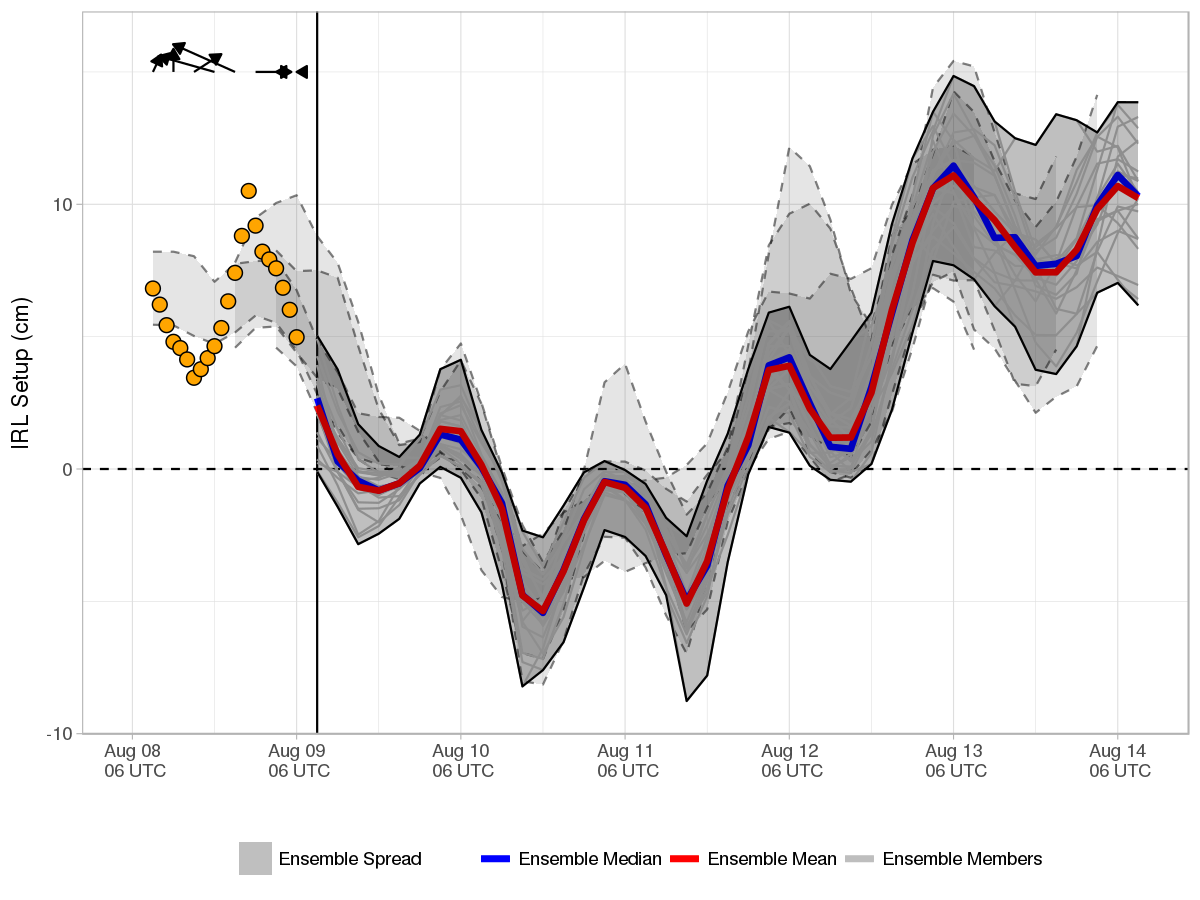
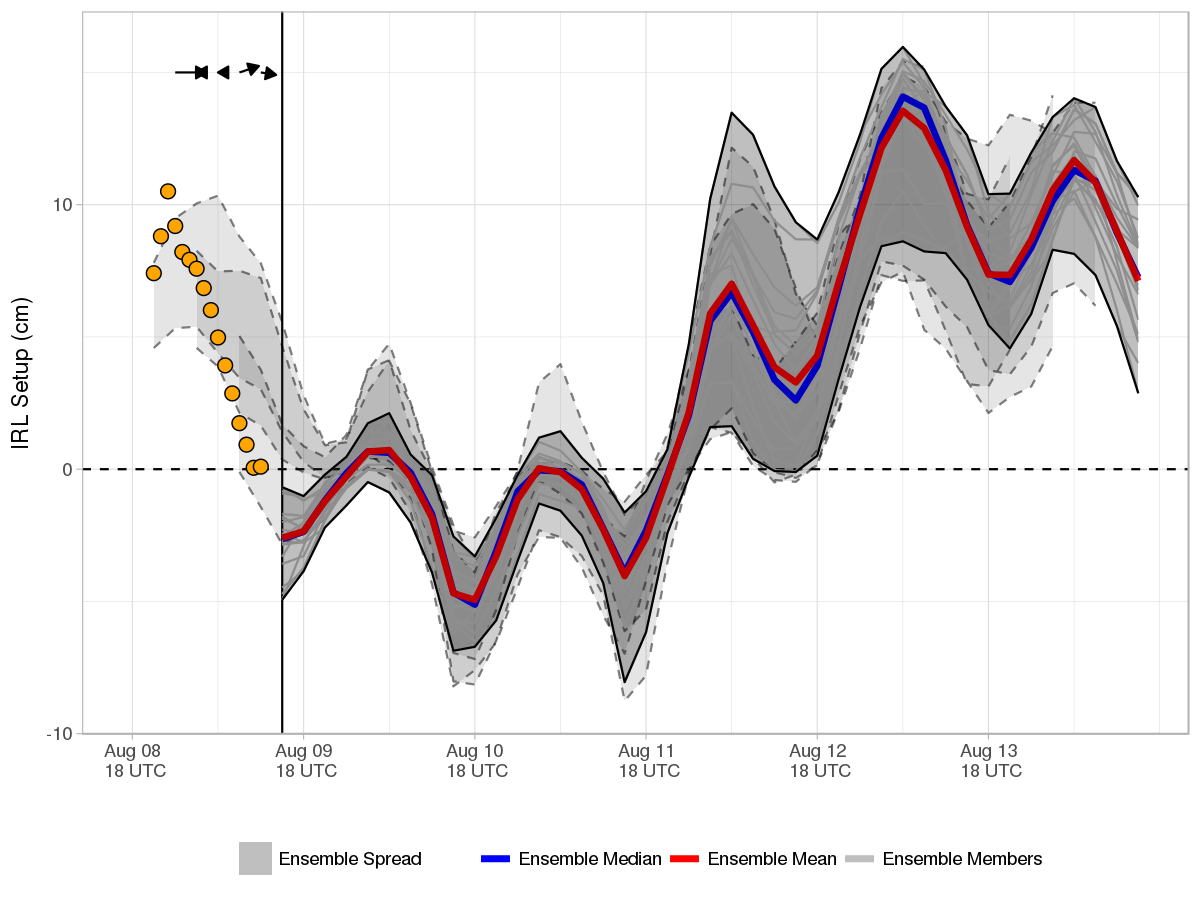
Forecast Update

diff --git a/docs/index.md b/docs/index.md
@@ -1,9 +1,9 @@
-Current Forecast 2018-08-09, Cycle 00UTC
+Current Forecast 2018-08-09, Cycle 06UTC
 ----------------------------------------
 
 [![](img/raw_setup.png)](https://fit-winds.github.io/IRLSetup/img/raw_setup.png)
 
-> Forecast valid 2018-08-09 02:29:03.
+> Forecast valid 2018-08-09 08:28:37.
 
 Explanation
 -----------
@@ -17,7 +17,7 @@ star), and Sebastian, FL (white star). In general, southerly (northerly)
 winds result in increased water elevation near Titusville (Sebastian)
 and positive (negative) setup.
 
-The current cycle 2018-08-09 00UTC 0.5° [Global Ensemble Forecast System
+The current cycle 2018-08-09 06UTC 0.5° [Global Ensemble Forecast System
 (GEFS)](https://www.ncdc.noaa.gov/data-access/model-data/model-datasets/global-ensemble-forecast-system-gefs)
 mean and median forecasts of setup are represented by the red and blue
 curves, respectively. Ensemble spread from the current and three
